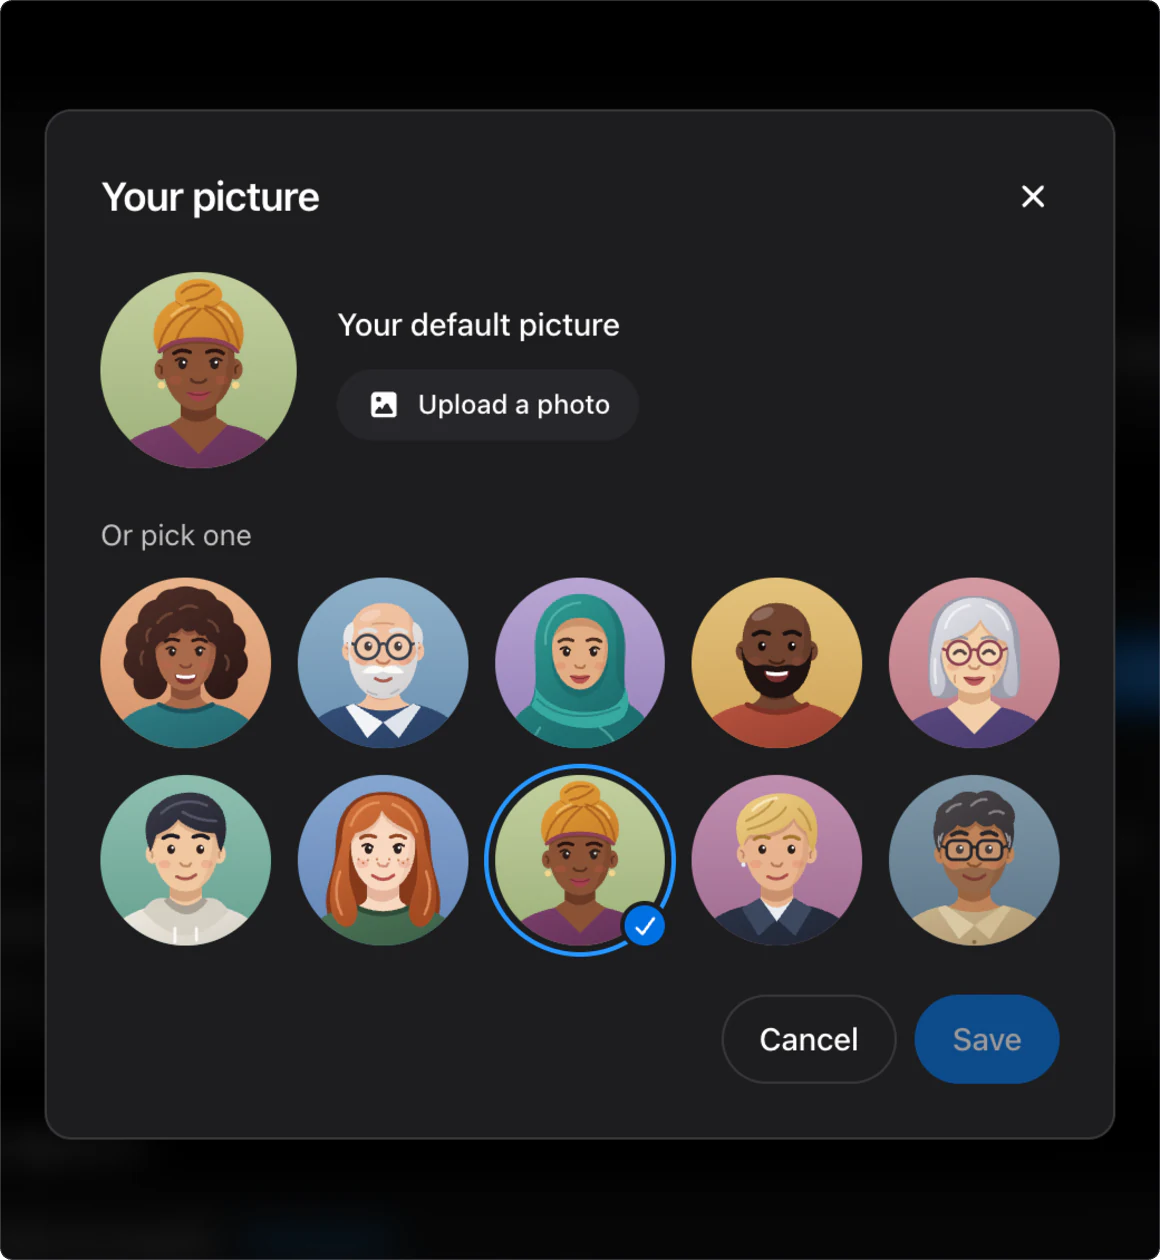
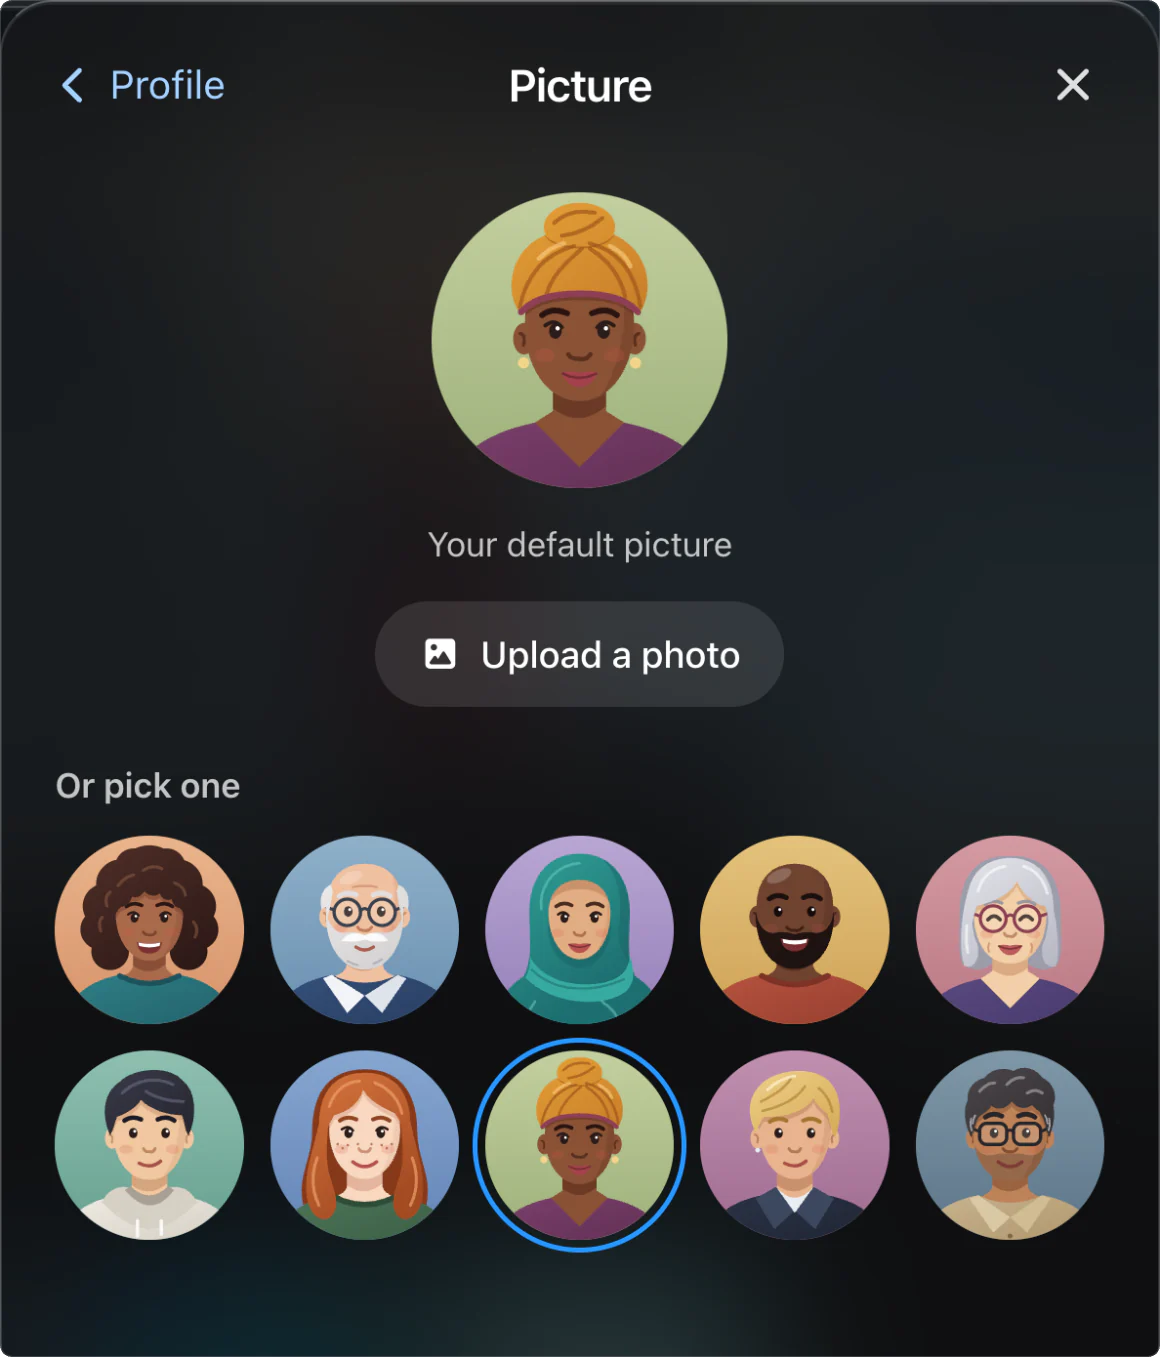
docs(readme): retake the pictures from the current app and say what the search and TV buttons now show

diff --git a/README.md b/README.md
@@ -31,15 +31,15 @@ When the credits start, it asks how it was, and the next episode is one press aw
 
 ## Find
 
-Say how long you have tonight, and it offers what fits and you have not seen.
+Say how long you have tonight, and it offers what fits: what you are partway through, the next episode, then what you have not seen.
 
-<img src="docs/images/search.webp" alt="The open search: How long have you got tonight, with 2 h chosen and three unseen films that fit, each with its length, when it would end and why. Below are recent searches and phrases to try.">
+<img src="docs/images/search.webp" alt="The open search: How long have you got tonight, with 2 h chosen and six titles ready to play that fit, each with its year and how long it runs or has left.">
 
 Or ask in your own words. What you have comes first, then what you could ask for.
 
 <picture>
   <source media="(prefers-reduced-motion: reduce)" srcset="docs/images/ask-still.webp">
-  <img src="docs/images/ask.webp" alt="Something kind and funny for a tired evening is typed and asked. Six titles come back, each with one line on why it fits: four in the library, with Play, and two that are not, with Download.">
+  <img src="docs/images/ask.webp" alt="Something kind and funny for a tired evening is typed and asked. Six titles come back, each with one line on why it fits: four ready to watch, and two that are not in the library, marked Download.">
 </picture>
 
 ## Picks and ratings
@@ -52,11 +52,11 @@ Each person gets picks of their own, each with its reason. Your ratings are your
 
 Open one film of a series to see the others, and fetch the missing ones together.
 
-<img src="docs/images/collection.webp" width="680" alt="Part of a film's page: its cast, and its collection of four films, three of them in the library, with a button to download the missing one.">
+<img src="docs/images/collection.webp" width="680" alt="Part of a film's page: its collection of four films, three of them in the library, with a button to download the missing one.">
 
 ## On the TV
 
-Open `/tv` in the TV's browser and type the code it shows into your phone. That TV is then yours: press Play on, on a film's page or in the player, and choose it. While that TV plays, the phone is its remote, and you can lock it or put it away.
+Open `/tv` in the TV's browser and type the code it shows into your phone. That TV is then yours: press Play on a TV, on a film's page or in the player, and choose it. While that TV plays, the phone is its remote, and you can lock it or put it away.
 
 Play on also lists AirPlay and Chromecast, which need no pairing:
 
@@ -84,13 +84,13 @@ The meter in the bar shows admins what fills the disks, what is about to go and 
 
 Admins see who watched, asked for and kept what, and what mediaman deleted and scanned. Everyone else sees only what they did themselves.
 
-<img src="docs/images/history.webp" width="680" alt="History: a day's events, such as a film started, one finished, one kept and one downloaded, each with who and when. Above are a search and filters by user, action, title and date.">
+<img src="docs/images/history.webp" width="680" alt="History: a day's events, such as a film started, one finished, one kept and one downloaded, each with who and when. Above are a search, a chip for each kind of event, and filters by person, title and day.">
 
 ## Profile
 
 Choose a picture, change your own email and password, link your Plex account (what you play in Plex apps then shapes your picks), see where you are signed in and sign out your other devices, rename or unpair your TVs, and say whether the AI may use your searches, ratings and requests and how your plays went.
 
-<img src="docs/images/profile.webp" width="400" alt="The picture dialog of a profile: Upload a photo, or pick one of ten drawn portraits.">
+<img src="docs/images/profile.webp" width="400" alt="The Picture panel of a profile: Upload a photo, or pick one of ten drawn portraits.">
 
 ## Run it
 
